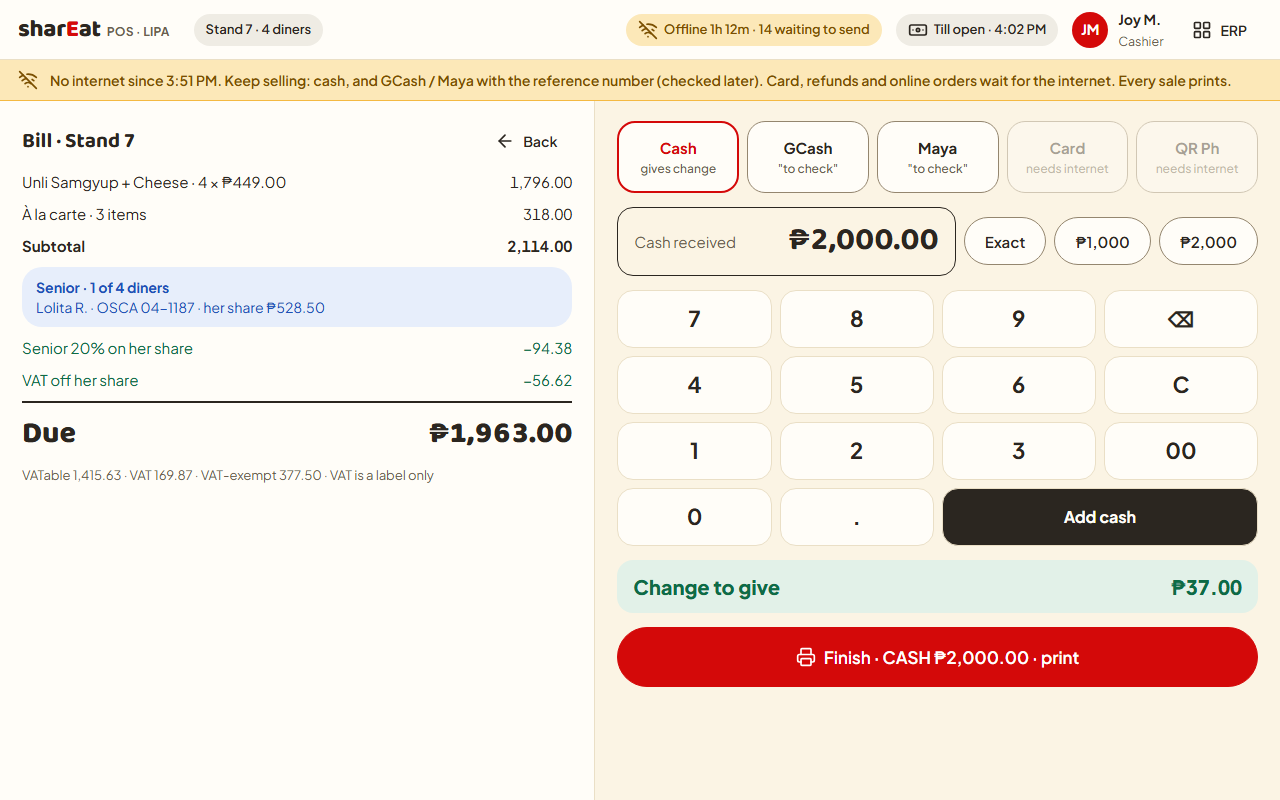
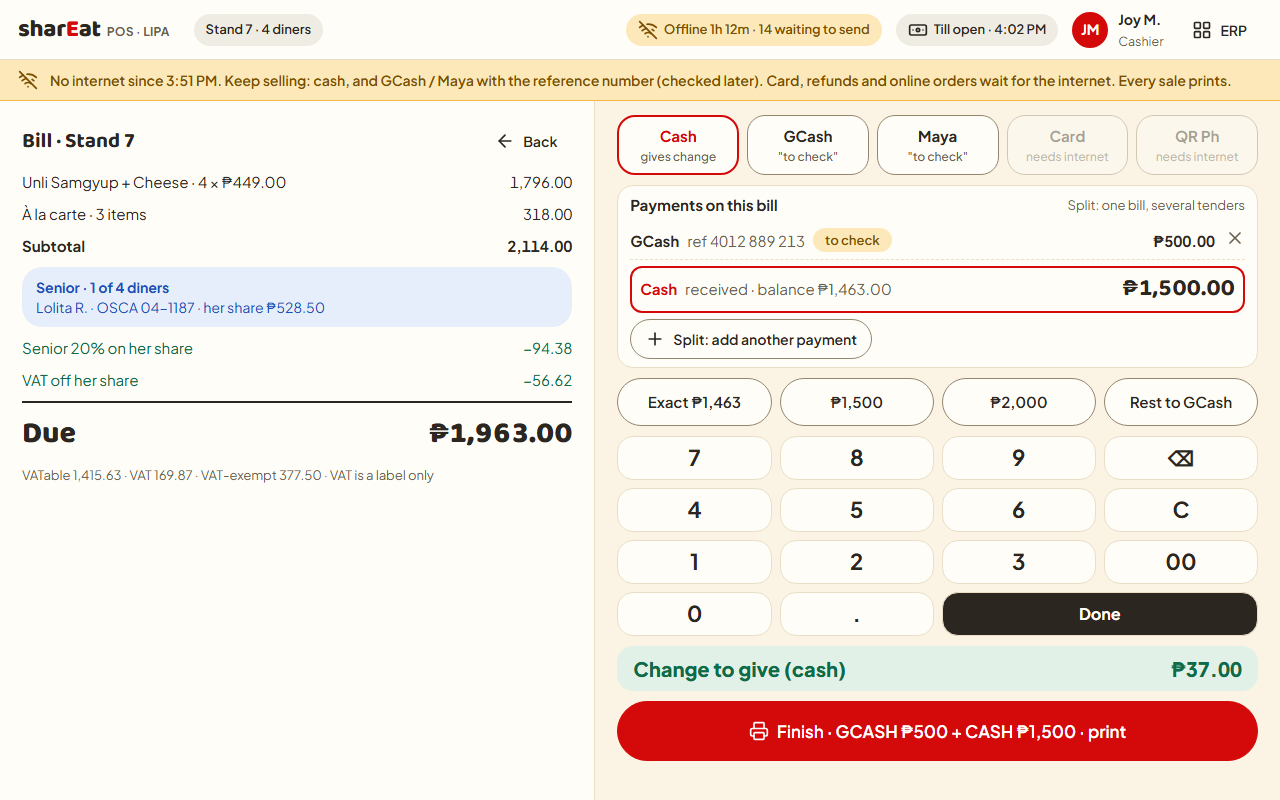
docs: split payment like v1 (bible row 438): several tenders on one receipt, cash-only overpay, references stored and printed

diff --git a/docs/plans/pos-v2-design/mocks.html b/docs/plans/pos-v2-design/mocks.html
@@ -105,9 +105,9 @@ h3{font-size:15px;margin:0;font-weight:700}
 .bill .r{display:flex;justify-content:space-between;font-size:15px}
 .bill .r.minus{color:var(--success)}
 .bill .r.big{font-family:"Baloo 2";font-size:30px;font-weight:800;border-top:2px solid var(--ink);padding-top:10px}
-.tender{padding:20px 22px;display:grid;gap:14px;align-content:start}
+.tender{padding:14px 22px;display:grid;gap:10px;align-content:start}
 .methods{display:grid;grid-template-columns:repeat(5,1fr);gap:8px}
-.m{height:72px;border-radius:18px;border:1px solid var(--field-border);background:var(--surface);display:grid;place-content:center;justify-items:center;gap:2px;font-weight:700}
+.m{height:60px;border-radius:18px;border:1px solid var(--field-border);background:var(--surface);display:grid;place-content:center;justify-items:center;gap:2px;font-weight:700}
 .m small{font-weight:500;font-size:12px;color:var(--muted)}
 .m.on{border:2px solid var(--brand);color:var(--brand-ink)}
 .m.off{opacity:.4}
@@ -191,9 +191,13 @@ payment:()=>topBar('<span class="pill" style="margin-left:10px">Stand 7 · 4 din
 <div class="r minus"><span>Senior 20% on her share</span><span class="num">−94.38</span></div><div class="r minus"><span>VAT off her share</span><span class="num">−56.62</span></div><div class="r big"><span>Due</span><span class="num">₱1,963.00</span></div>
 <div class="muted" style="font-size:13px">VATable 1,415.63 · VAT 169.87 · VAT-exempt 377.50 · VAT is a label only</div></div>
 <div class="tender"><div class="methods">${[['Cash','gives change',1],['GCash',off?'"to check"':'ref no.'],['Maya',off?'"to check"':'ref no.'],['Card',off?'needs internet':'ref no.',0,off],['QR Ph',off?'needs internet':'auto',0,off]].map(([n,s,on,o])=>`<div class="m ${on?'on':''} ${o?'off':''}">${n}<small>${s}</small></div>`).join('')}</div>
-<div class="row" style="display:grid;grid-template-columns:1fr auto auto auto;gap:8px"><div class="read"><span class="muted">Cash received</span><b class="num">₱2,000.00</b></div><span class="btn">Exact</span><span class="btn">₱1,000</span><span class="btn">₱2,000</span></div>
-<div class="pad">${['7','8','9','⌫','4','5','6','C','1','2','3','00','0','.','',''].map((k,i)=>i===14?`<div class="add" style="grid-column:span 2">Add cash</div>`:i===15?'':`<div>${k}</div>`).join('')}</div>
-<div class="bal"><span>Change to give</span><span class="num">₱37.00</span></div><span class="btn primary big">${ic('printer')} Finish · CASH ₱2,000.00 · print</span></div></div>`,
+<div class="card" style="padding:8px 12px;display:grid;gap:6px;border-radius:16px"><div class="row" style="justify-content:space-between"><h3>Payments on this bill</h3><span class="muted" style="font-size:13px">Split: one bill, several tenders</span></div>
+<div class="row" style="justify-content:space-between;font-size:15px;padding:6px 0;border-bottom:1px dashed var(--surface-border)"><span class="row" style="gap:8px"><b>GCash</b><span class="muted num">ref 4012 889 213</span>${off?'<span class="pill warn" style="height:24px">to check</span>':''}</span><span class="row"><b class="num">₱500.00</b><span class="muted">${ic('x')}</span></span></div>
+<div class="row" style="justify-content:space-between;font-size:15px;padding:4px 8px;border:2px solid var(--brand);border-radius:12px"><span class="row" style="gap:8px"><b style="color:var(--brand-ink)">Cash</b><span class="muted">received · balance ₱1,463.00</span></span><b class="num" style="font-family:'Baloo 2';font-size:24px">₱1,500.00</b></div>
+<span class="btn sm" style="justify-self:start">${ic('plus')} Split: add another payment</span></div>
+<div class="row" style="display:grid;grid-template-columns:repeat(4,1fr);gap:8px"><span class="btn">Exact ₱1,463</span><span class="btn">₱1,500</span><span class="btn">₱2,000</span><span class="btn">Rest to GCash</span></div>
+<div class="pad" style="grid-auto-rows:44px">${['7','8','9','⌫','4','5','6','C','1','2','3','00','0','.','',''].map((k,i)=>i===14?`<div class="add" style="grid-column:span 2;height:44px">Done</div>`:i===15?'':`<div style="height:44px">${k}</div>`).join('')}</div>
+<div class="bal" style="padding:8px 16px"><span>Change to give (cash)</span><span class="num">₱37.00</span></div><span class="btn primary big">${ic('printer')} Finish · GCASH ₱500 + CASH ₱1,500 · print</span></div></div>`,
 kitchen:()=>topBar('<span class="pill" style="margin-left:10px">Kitchen · Grill station</span>',['RB','Rico B.','Kitchen staff'])+tabs('kitchen')+`<div class="main"><div class="row" style="justify-content:space-between"><div class="cats">${['All','Grill','Hot kitchen','Drinks','Refills'].map((c,i)=>`<span class="chip ${i===1?'on':''}">${c}</span>`).join('')}</div><span class="muted">Oldest first · tap a line when it goes out</span></div>
 <div class="kds">${[{n:12,t:'14 min',late:1,it:[['2','Pork belly (refill)'],['1','Beef brisket'],['x1','Kimchi']]},{n:5,t:'8 min',it:[['2','Cheese corn'],['1','Kimchi fried rice']],note:'No egg on the rice'},{n:9,t:'3 min',ref:1,it:[['3','Pork belly'],['2','Chicken bulgogi']],label:'Refill'},{n:10,t:'1 min',it:[['1','Iced tea pitcher'],['1','Kimchi fried rice'],['3','Starter set']]}].map(t=>`<div class="tk ${t.late?'late':''} ${t.ref?'ref':''}"><div class="th"><span class="no">Stand ${t.n}</span><span class="row" style="font-weight:700;font-size:14px">${t.label?t.label+' · ':''}${ic('clock')} ${t.t}</span></div><ul>${t.it.map(([q,n])=>`<li class="${q.startsWith('x')?'x':''}"><b>${q.replace('x','')}</b><span>${n}</span></li>`).join('')}${t.note?`<li><span class="note">${t.note}</span></li>`:''}</ul><div class="ft"><span class="btn ${t.late?'primary':''}" style="width:100%">${ic('check')} All out</span></div></div>`).join('')}</div></div>`,
 refill:()=>topBar()+banner()+tabs('refill')+`<div class="body"><div class="main"><div class="row" style="justify-content:space-between"><div><h1>Refills</h1><span class="muted">Servers ask here; the grill sees them at once. Refills carry no price.</span></div></div>

diff --git a/PROJECT_BIBLE.md b/PROJECT_BIBLE.md
@@ -65,35 +65,35 @@
 - `1233–1267` 10. Phase plan
 - `1268–1284` 11. Migration & ETL rules
 - `1285–1349` 12. Inherited landmines — do not repeat these
-- `1350–1770` 13. Decision log
-- `1771–1790` 14. Amendment protocol
-- `1791–1795` 15. Engineering standards — the industry practices this project follows
-  - `1796–1801` 15.1 Build order: walking skeleton first
-  - `1802–1813` 15.2 Golden-master testing — the most important practice here
-  - `1814–1822` 15.3 Strangler Fig, not big-bang cutover
-  - `1823–1827` 15.4 No dual-write
-  - `1828–1836` 15.5 Expand/contract migrations
-  - `1837–1845` 15.6 Observability from day zero, not later
-  - `1846–1850` 15.7 CI gates
-  - `1851–1855` 15.8 Backups and a tested restore
-  - `1856–1860` 15.9 Twelve-Factor config
-  - `1861–1868` 15.10 Append-only ledgers — but not event sourcing
-  - `1869–1873` 15.11 Defence in depth
-  - `1874–1902` 15.12 Skills are lenses, not assurance
-  - `1903–1909` 15.13 Reconciliation is a permanent feature
-- `1910–1914` 16. The accounting spine
-  - `1915–1946` 16.0 What we are actually fixing — the diagnosis
-  - `1947–1990` 16.1 The ten invariants — non-negotiable
-  - `1991–2005` 16.2 The oracle: how "correct" is tested
-  - `2006–2027` 16.3 The model — header + lines, not legs
-  - `2028–2047` 16.4 Deliberately simpler than ERPNext
-  - `2048–2117` 16.5 PH-specific rules — isolated, versioned, dated
-  - `2118–2142` 16.6 What v1 already gets right — preserve the intent
-  - `2143–2164` 16.7 Known defects v2 must fix — the Phase 1–3 requirements list
-  - `2165–2179` 16.8 What v1's accounting already gets right
-  - `2180–2223` 16.9 Chart-of-accounts governance — lifecycle, not "create everything"
-  - `2224–2274` 16.10 Posting patterns — one canonical pattern per business event
-  - `2275–2307` 16.11 Inventory's accounting integration
+- `1350–1771` 13. Decision log
+- `1772–1791` 14. Amendment protocol
+- `1792–1796` 15. Engineering standards — the industry practices this project follows
+  - `1797–1802` 15.1 Build order: walking skeleton first
+  - `1803–1814` 15.2 Golden-master testing — the most important practice here
+  - `1815–1823` 15.3 Strangler Fig, not big-bang cutover
+  - `1824–1828` 15.4 No dual-write
+  - `1829–1837` 15.5 Expand/contract migrations
+  - `1838–1846` 15.6 Observability from day zero, not later
+  - `1847–1851` 15.7 CI gates
+  - `1852–1856` 15.8 Backups and a tested restore
+  - `1857–1861` 15.9 Twelve-Factor config
+  - `1862–1869` 15.10 Append-only ledgers — but not event sourcing
+  - `1870–1874` 15.11 Defence in depth
+  - `1875–1903` 15.12 Skills are lenses, not assurance
+  - `1904–1910` 15.13 Reconciliation is a permanent feature
+- `1911–1915` 16. The accounting spine
+  - `1916–1947` 16.0 What we are actually fixing — the diagnosis
+  - `1948–1991` 16.1 The ten invariants — non-negotiable
+  - `1992–2006` 16.2 The oracle: how "correct" is tested
+  - `2007–2028` 16.3 The model — header + lines, not legs
+  - `2029–2048` 16.4 Deliberately simpler than ERPNext
+  - `2049–2118` 16.5 PH-specific rules — isolated, versioned, dated
+  - `2119–2143` 16.6 What v1 already gets right — preserve the intent
+  - `2144–2165` 16.7 Known defects v2 must fix — the Phase 1–3 requirements list
+  - `2166–2180` 16.8 What v1's accounting already gets right
+  - `2181–2224` 16.9 Chart-of-accounts governance — lifecycle, not "create everything"
+  - `2225–2275` 16.10 Posting patterns — one canonical pattern per business event
+  - `2276–2308` 16.11 Inventory's accounting integration
 
 <!-- TOC:END -->
 
@@ -104,7 +104,7 @@
 
 | | |
 |---|---|
-| **Version** | 3.23 — **POS v2 is a full-screen module of the ERP app on the one Postgres, with no Firebase database, sign-in or server; offline selling uses the tablet's own outbox and a snapshot; Lipa on it by 7 Dec 2026 with the 24 h soak as the go-live gate; loyalty not in the first release; the edge-lane wording follows row 280; Lipa's December totals bridge to v1 until 31 Dec; per-diner SC/PWD (§13 rows 430–437, `docs/plans/pos-v2-design.md`).** Carries 3.22 — **Ian's 2026-10-14 answers: one person one id, the clock stays fingerprint/card; a narrowing-only position pick (part of row 198); a true per-category receipt exemption with its detector (reverses T-196 decision 2); a local OCR engine allowed (narrows row 251); settlement files parsed; liabilities = one unpaid view (§13 rows 319–331).** Carries 3.21 — **POS and CUSTOMER v1 are copied into this monorepo and moved onto the one Postgres and one auth; sales figures are never typed or edited in the ERP; one Postgres, no hot/cold; POS sells offline 24 h per device; Firebase exit scope PROVISIONAL; `other` retired as an expense method; a push to main is a deploy (§13 rows 269–278, ADR-015).** Carries 3.20 — **push only at wrap-up; every visible refusal names things in words, and only records visible at THIS store; hand grants close-and-replace rather than re-label, staying at that store (supersedes row 188's re-label and T-291 decision 5's mechanism); tests assert the target; number boxes are text with inputMode; blank means not decided; payout account admin-only; descriptions clamp at 3 lines (§13 rows 228–237).** Carries 3.19 (**a POSITION, not a role, decides what a person may do — the `staff` baseline is shrunk to nothing and all 21 everyday capabilities become position grants (§13 row 210); a capability REMOVAL ships backfill-first then flip, never the flip alone, and the backfill is the task rather than a precaution (§13 row 211); and a static census only NOMINATES candidates — running them is what settles it, because three passes of careful reading said 19, 20, and the real number was 22 (§13 row 212).** Carries 3.18 (**prefer a guard to `!` on a regex match; where `!` is used, a comment names what makes it safe, because `!` is the one remedy that silently switches off the `noUncheckedIndexedAccess` this repo turned on deliberately (§13 row 206).** Carries 3.17 (**a remedy is as perishable as a diagnosis: any comment or register row naming a specific token — an identifier, a line number, a secret, a file — and asserting a present-tense fact about it goes stale with nobody editing it, so record the RULING and prefer a NAME to a POSITION (§13 row 204); and production publishes the commit it is running at `/api/health`, the disclosure accepted and named rather than discovered (§13 row 205).** Carries 3.16 (**position access defaults are materialised `person_grants` rows with provenance `'position'`, reconciled at the five moments a human is present and never consulted at check time; a position can only ADD to the role matrix, never subtract; the screen is gated on `grant_capability`, not the `super_admin` literal (§13 row 198).** Carries 3.15 (**the fiscal-period override reaches an elevated manager in an organisation with NO administrator, and that enrolment is intended rather than a leak in row 193 — the adminless fallback is DERIVED from the matrix, so an admin-only capability joins it with no edit to any list (§13 row 196).** Carries 3.14 (**the bootstrap question *“has this system been set up at all?”* joins the closed cross-org caller list at all three sites that ask it, using bootstrap’s own door rather than widening the auth door (§13 row 195); the guard enforcing that list scanned two of nine source roots and now scans all of them (DEF-295).** Carries 3.13 (**an elevated manager's grants are revoked when the organisation gains an active administrator; the elevation ends when the administrator arrives, and is never re-derived at check time (§13 row 188).** Carries 3.12 (a recurring expense drafts itself and never auto-pays; the job acts as its author through the ordinary gates — §13 row 183), 3.11 (§12 gains the sweep-control landmine: a sweep that reports a total must first report a known non-zero control — §13 row 181), 3.10 (the cutover wipes transactional data, not stores and store settings — the Wastage Monitor survives cutover — §13 row 182), 3.9 (the tenancy id never comes from the client, and RLS is the second layer behind the repository filter — never the only one, never absent — §13 row 181), 3.8 (order-wastage tracked-vs-instant is a per-CHANNEL policy, not a per-record choice — §13 row 180), 3.7 (every v1 feature is accounted for in v2 — carried, folded or evolved, never silently dropped — and where v1's data shape drifted over time the most recent shape outweighs the old — §1.2d, §13 row 179), 3.6 (§4.2 rule 7 covers every dashboard tile, not only accounting statements: a separately-accumulated counter is forbidden even when it is called a cache — §13 row 173), 3.5 (discovery has a stated method, §1.2d: synthesize v1's goal in writing, weigh whether the live data is in good shape, then design v2 to beat that goal — v1 is the flawed version, v2 is the improved one), 3.4 (UI/UX is a third authority: familiar-but-upgraded screens, one visual family across ERP/POS/CUSTOMER), 3.3 (an unverified supplier invoice may carry a DRAFT expense), 3.2 (inventory is PERPETUAL from v2's first posting; a return is a credit in both directions), 3.1 (no SC/PWD statutory record is kept) and 3.0 (the card id joins the hot set) — §13 rows 164–173))))))) |
+| **Version** | 3.23 — **POS v2 is a full-screen module of the ERP app on the one Postgres, with no Firebase database, sign-in or server; offline selling uses the tablet's own outbox and a snapshot; Lipa on it by 7 Dec 2026 with the 24 h soak as the go-live gate; loyalty not in the first release; the edge-lane wording follows row 280; Lipa's December totals bridge to v1 until 31 Dec; per-diner SC/PWD; split payment like v1 (§13 rows 430–438, `docs/plans/pos-v2-design.md`).** Carries 3.22 — **Ian's 2026-10-14 answers: one person one id, the clock stays fingerprint/card; a narrowing-only position pick (part of row 198); a true per-category receipt exemption with its detector (reverses T-196 decision 2); a local OCR engine allowed (narrows row 251); settlement files parsed; liabilities = one unpaid view (§13 rows 319–331).** Carries 3.21 — **POS and CUSTOMER v1 are copied into this monorepo and moved onto the one Postgres and one auth; sales figures are never typed or edited in the ERP; one Postgres, no hot/cold; POS sells offline 24 h per device; Firebase exit scope PROVISIONAL; `other` retired as an expense method; a push to main is a deploy (§13 rows 269–278, ADR-015).** Carries 3.20 — **push only at wrap-up; every visible refusal names things in words, and only records visible at THIS store; hand grants close-and-replace rather than re-label, staying at that store (supersedes row 188's re-label and T-291 decision 5's mechanism); tests assert the target; number boxes are text with inputMode; blank means not decided; payout account admin-only; descriptions clamp at 3 lines (§13 rows 228–237).** Carries 3.19 (**a POSITION, not a role, decides what a person may do — the `staff` baseline is shrunk to nothing and all 21 everyday capabilities become position grants (§13 row 210); a capability REMOVAL ships backfill-first then flip, never the flip alone, and the backfill is the task rather than a precaution (§13 row 211); and a static census only NOMINATES candidates — running them is what settles it, because three passes of careful reading said 19, 20, and the real number was 22 (§13 row 212).** Carries 3.18 (**prefer a guard to `!` on a regex match; where `!` is used, a comment names what makes it safe, because `!` is the one remedy that silently switches off the `noUncheckedIndexedAccess` this repo turned on deliberately (§13 row 206).** Carries 3.17 (**a remedy is as perishable as a diagnosis: any comment or register row naming a specific token — an identifier, a line number, a secret, a file — and asserting a present-tense fact about it goes stale with nobody editing it, so record the RULING and prefer a NAME to a POSITION (§13 row 204); and production publishes the commit it is running at `/api/health`, the disclosure accepted and named rather than discovered (§13 row 205).** Carries 3.16 (**position access defaults are materialised `person_grants` rows with provenance `'position'`, reconciled at the five moments a human is present and never consulted at check time; a position can only ADD to the role matrix, never subtract; the screen is gated on `grant_capability`, not the `super_admin` literal (§13 row 198).** Carries 3.15 (**the fiscal-period override reaches an elevated manager in an organisation with NO administrator, and that enrolment is intended rather than a leak in row 193 — the adminless fallback is DERIVED from the matrix, so an admin-only capability joins it with no edit to any list (§13 row 196).** Carries 3.14 (**the bootstrap question *“has this system been set up at all?”* joins the closed cross-org caller list at all three sites that ask it, using bootstrap’s own door rather than widening the auth door (§13 row 195); the guard enforcing that list scanned two of nine source roots and now scans all of them (DEF-295).** Carries 3.13 (**an elevated manager's grants are revoked when the organisation gains an active administrator; the elevation ends when the administrator arrives, and is never re-derived at check time (§13 row 188).** Carries 3.12 (a recurring expense drafts itself and never auto-pays; the job acts as its author through the ordinary gates — §13 row 183), 3.11 (§12 gains the sweep-control landmine: a sweep that reports a total must first report a known non-zero control — §13 row 181), 3.10 (the cutover wipes transactional data, not stores and store settings — the Wastage Monitor survives cutover — §13 row 182), 3.9 (the tenancy id never comes from the client, and RLS is the second layer behind the repository filter — never the only one, never absent — §13 row 181), 3.8 (order-wastage tracked-vs-instant is a per-CHANNEL policy, not a per-record choice — §13 row 180), 3.7 (every v1 feature is accounted for in v2 — carried, folded or evolved, never silently dropped — and where v1's data shape drifted over time the most recent shape outweighs the old — §1.2d, §13 row 179), 3.6 (§4.2 rule 7 covers every dashboard tile, not only accounting statements: a separately-accumulated counter is forbidden even when it is called a cache — §13 row 173), 3.5 (discovery has a stated method, §1.2d: synthesize v1's goal in writing, weigh whether the live data is in good shape, then design v2 to beat that goal — v1 is the flawed version, v2 is the improved one), 3.4 (UI/UX is a third authority: familiar-but-upgraded screens, one visual family across ERP/POS/CUSTOMER), 3.3 (an unverified supplier invoice may carry a DRAFT expense), 3.2 (inventory is PERPETUAL from v2's first posting; a return is a credit in both directions), 3.1 (no SC/PWD statutory record is kept) and 3.0 (the card id joins the hot set) — §13 rows 164–173))))))) |
 | **Created** | 2026-08-22 |
 | **Last amended** | 2026-11-06 | <!-- ⚠ This field read 2026-09-12 while rows 201, 202 and 203 had already landed on 2026-09-13: §14 step 3 says bump it and the bump was missed. The hand-maintained half of any pair is the half that rots (DEF-240), and this field is the hand-maintained half of §13. -->
 | **Status** | Accounting-correctness project (§1.1). All discovery complete. Root cause identified (§16.0). **Chart of accounts aligned and signed off.** Ready to write Phase 0/1 task specs. |
@@ -1767,6 +1767,7 @@ just a patch.**
 | 435 | 2026-11-06 | **POS v2 WORK MAY MERGE DURING 20 NOV – 14 DEC (NARROWS ROW 386), ON ONE CONDITION: THE NEW POS STAYS OFF FOR EVERY STORE, BEHIND THE PER-STORE POS SWITCH (T-523), UNTIL LIPA'S GO-LIVE (ROW 431).** Ian, 2026-11-06, relayed by the orchestrator. Every merge to `main` is a production deploy (row 278), so `/pos` reaches erp2 inert: no store sees or writes through it until its switch is turned on, and turning it on is the go-live step itself (design §8). A TEST store may be switched on for the soak and the emulator. Three parallel Sonnet builder lanes are approved for weeks 2–3, each in its own worktree with its own `_test` database (no lane-DB-pinned tests) and no shared files. | Row 386's pause protected the Firebase P0 rollout; a dark switch keeps that protection while the 7 Dec build lands | Yes |
 | 436 | 2026-11-06 | **LIPA'S DECEMBER 2026 SALES REACH v1'S BOOKS THROUGH A WRITE-ONLY DAY-TOTAL BRIDGE (A NARROW EXCEPTION TO ROW 430), AND PRE-2027 POS ROWS IN POSTGRES ARE PURGED AT CUTOVER.** Ian, 2026-11-06, option (a) of `docs/plans/pos-v2-design.md` §8a. After each Z, the ERP writes that day's totals for Lipa into the one Firestore document v1's sales pull reads, `stores/{posStoreId}/analytics/{yyyymmdd}` (`payments.totalGross`, `txCount`, `byMethod`, `discountsTotal`, `chargesTotal`; a full overwrite, never increments), **for business dates up to 2026-12-31 only**. Built inside T-531. Guards: the writer refuses any date after 31 Dec; the v2 06:00 import (T-396) skips Lipa from its switch date; the trial app is signed out at the switch so nothing else writes that document. December stock usage for Lipa is entered by hand in v1. Because v1 then holds December's booked day totals, **the T-523 transactional POS tables are classed `purge`** (row 379 confirmed for them). | The 2026 books close on v1 (row 379, ADR-005) and v1 reads only that document (`ERP-rebuild/src/lib/server/pos-api.ts:143-168`, `POS/src/app/api/external/sales/route.ts:21-35`); typed figures (option b) were refused as the row 270 hole, and a January go-live (option c) gave up row 431's date | Yes — it ends by itself on 31 Dec |
 | 437 | 2026-11-06 | **A SENIOR OR PWD DINER'S DISCOUNT COVERS THEIR OWN PACKAGE HEAD PLUS THE DISHES ORDERED ONLY FOR THEM; SHARED DISHES ARE NOT DISCOUNTED.** Ian, 2026-11-06 (the PC-7 recommendation, after the 2024 Department of Justice opinion). The 20% discount and the VAT removal apply to that share only (PC-7 payment screen). Several qualifying diners at one table each get their own share and their own `statutory_discount_records` row (T-523 R12). The till marks a dish as "for" a diner when it is ordered; an unmarked dish is shared. | Statutory: the discount is for the qualifying person's own consumption; per-diner is what the approved payment screen shows | Yes |
+| 438 | 2026-11-06 | ⭐ **THE POS v2 CASHIER TAKES A SPLIT PAYMENT LIKE v1: SEVERAL TENDERS ON ONE BILL (E.G. GCASH + CASH), IN RELEASE 1. ONE TABLE = ONE SALES RECEIPT; v1 HAS NO PER-PERSON SPLIT INTO SEPARATE RECEIPTS AND NO PAY-LATER, SO NEITHER IS BUILT.** Ian, 2026-11-06: *"cashier payment screen must process split payment like v1"*. **v1's goal (§1.2d):** the diner pays with whatever mix they carry, the cashier sees the balance shrink with each tender, change comes only from cash, and the drawer and wallet totals stay right. **v1's method** (`POS/src/components/cashier/payment-modal.tsx:271-279, 720-737`; `lib/checkout/receipt-math.ts:59-75`; `lib/server/pos-commands/checkout.ts:111`): a "Split Payment" button adds a row with the remaining balance pre-filled; a reference is required where the method has one; overpaying is allowed only if cash covers the change; at most 20 tenders; the receipt stores a map keyed by method NAME (same names merged) and prints one line per tender, then CHANGE; references are not printed. **v2 keeps the behaviour and beats the method:** one `pos_sales_receipt_payments` row per tender keyed by `tender_id` (T-523 R8), never by name; exact centavos (no 1-centavo tolerance needed); each tender's reference is stored on its row and **printed** on the receipt so the wallet can be matched; offline, an e-wallet tender is "to check" (A3); at most 20 tenders per sales receipt (T-524 rule). Mock: `docs/plans/pos-v2-design/payment.png`. | A split was the one part of v1's payment screen release 1 would otherwise lose; the T-523 schema already supports it, so it costs screen work only (T-528) | Yes |
 
 ## 14. Amendment protocol
 

diff --git a/docs/plans/pos-v2-design.md b/docs/plans/pos-v2-design.md
@@ -223,7 +223,7 @@ The bible's "Postgres owns the truth; Firebase owns the edge" line (§1 line 203
 **Seat a party.** Stands are tapped, never typed, and used stands are greyed out (row 371). Heads use a stepper. The first order can hold a package and à la carte together (row 358). Sold-out items show but cannot be tapped (row 307's sold-out flag).
 ![New order](pos-v2-design/new-order.png)
 
-**Payment, as approved in PC-7, redrawn.** The whole bill stays on the left, tender buttons are big, the cash keypad and quick amounts sit on the right, and change is shown only for cash. Offline, Card and QR Ph grey out and GCash/Maya say "to check".
+**Payment, as approved in PC-7, redrawn, with split payment (row 438).** The whole bill stays on the left. On the right, "Payments on this bill" lists each tender: here GCash ₱500 with its reference, then Cash ₱1,500 being entered, with the balance shown. "Split: add another payment" adds the next tender with the rest pre-filled, as v1 does. Change comes only from cash. Offline, Card and QR Ph grey out and GCash/Maya say "to check".
 ![Payment offline](pos-v2-design/payment-offline.png)
 
 **Kitchen, Grill Night theme.** One card per stand, oldest first, a station filter, and late tickets in red. "All out" is the tap. Dark because kitchens are hot, bright and read from a distance; the light version is also rendered (`kitchen.png`).
@@ -315,7 +315,7 @@ the switch, so it cannot add increments to the same document; (3) the writer ref
 | **T-525** | APIs: `/api/pos/events` (idempotent, quarantine, mismatch finding), `/api/pos/snapshot` (ETag, closed list per §5.3 / row 430), `/api/pos/state` (version, 304) | W2 · 16–19 Nov | M | Sonnet | T-524 |
 | **T-526** | `/pos` kiosk shell in `apps/erp`: tabs, status pills, T-464 sign-in wired, offline PIN verifier, route capabilities, census guards, Grill Night default on Kitchen (row 433) | W2 · 16–20 Nov | M | Sonnet | T-525 (stubs from 16 Nov) |
 | **T-527** | Screens: Orders (stands) + Seat a party + add items | W2–W3 · 18–24 Nov | M | Sonnet | T-526 |
-| **T-528** | Screens: Payment (cash, GCash/Maya "to check", **senior/PWD per diner with name and ID**; share = own head + dishes ordered only for them, row 437) + receipt print and reprint (Bluetooth plugin, browser fallback) | W3 · 23–26 Nov | M | Sonnet (money lane) | T-527 |
+| **T-528** | Screens: Payment (**split payment: several tenders on one bill, row 438**; cash, GCash/Maya "to check", **senior/PWD per diner with name and ID**; share = own head + dishes ordered only for them, row 437) + receipt print and reprint (Bluetooth plugin, browser fallback) | W3 · 23–26 Nov | M | Sonnet (money lane) | T-527 |
 | **T-529** | Screens: Kitchen + Refills (polling, T-508 station routing, printed tickets offline) | W3 · 23–26 Nov | M | Sonnet | T-526 |
 | **T-530** | Offline: port `lib/terminal` + outbox to typed events, service-worker app-shell cache, offline printing, X-slip every 4 h, ₱50k warning, update gate | W2–W3 · 16–26 Nov | L | Sonnet | T-525 |
 | **T-531** | Day close: Z on the POS (row 390) → ERP sales day `source = pos_receipts` for the store; Lipa leaves the bridge and the v1 day feed from the switch date. **Plus the December day-total writer to v1's Firestore document, up to 31 Dec only, with its three guards (row 436)**. Till opening and counting use the **existing ERP till screen** (row 319), no new tab | W3 · 23–27 Nov | M | Sonnet (money lane) | T-524 |
